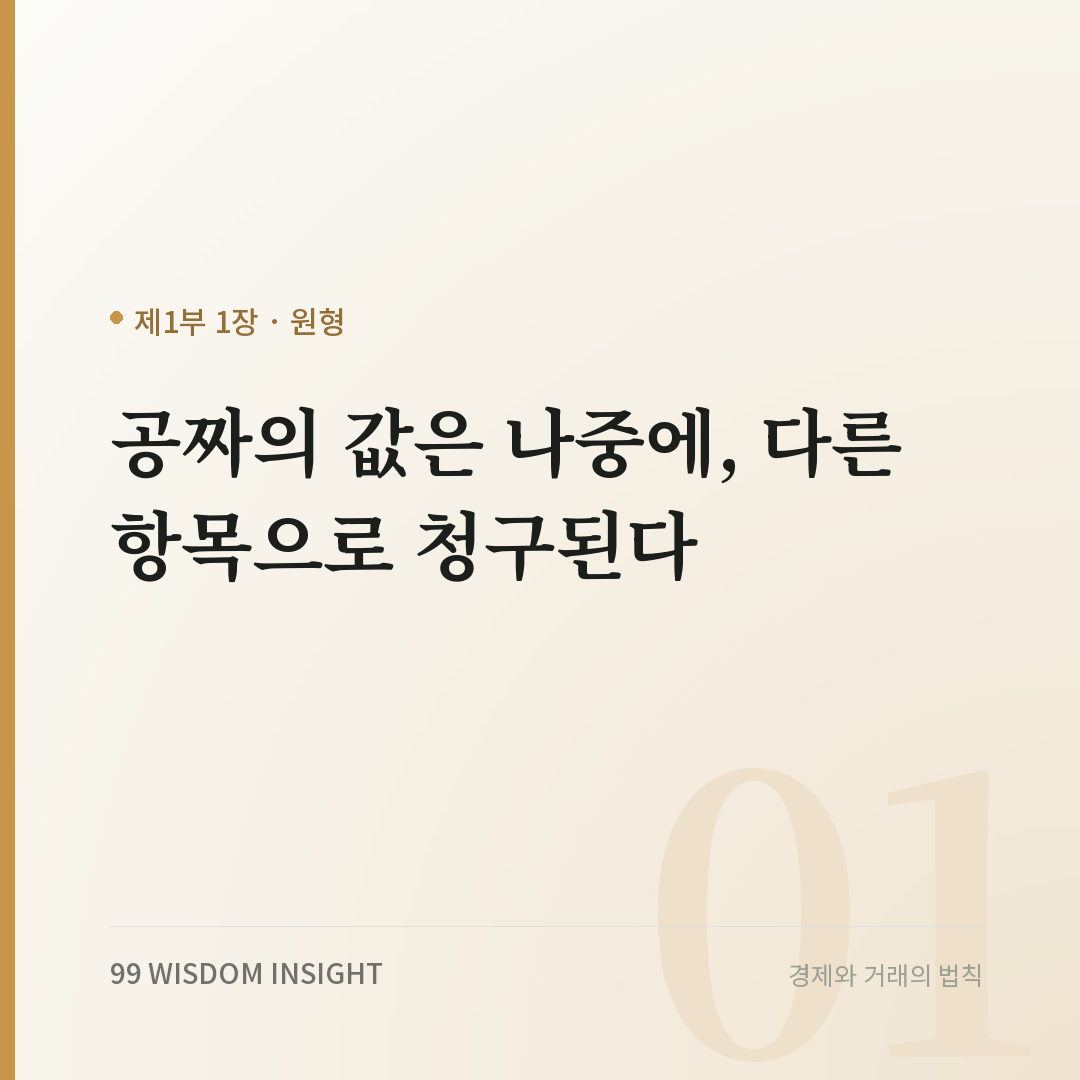
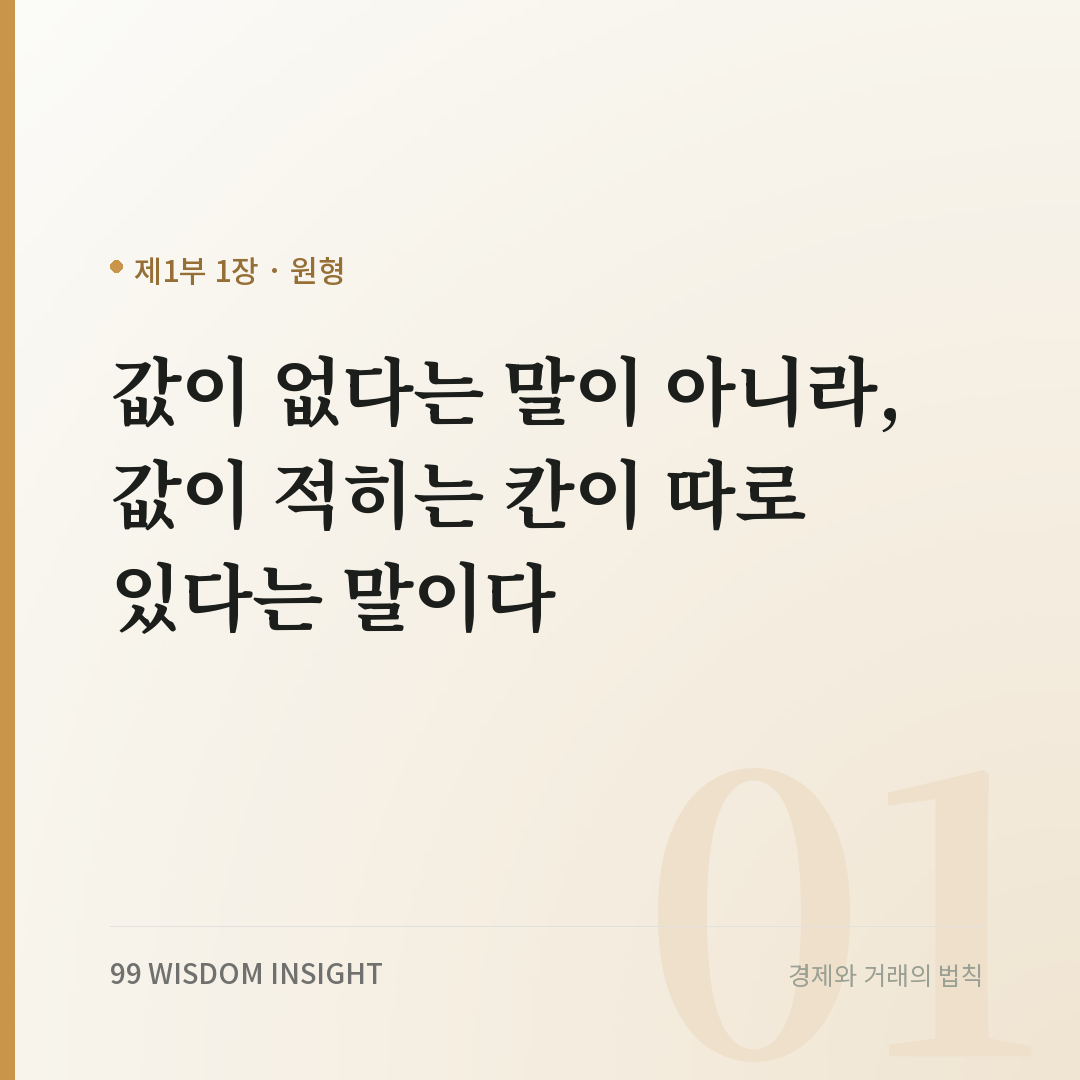
1장 칼럼을 깊이 있는 글로 개선 (샘플)
구성은 그대로 두고 문체와 내용을 올렸다. 기존 글은 사실을 짧게 나열하는
방식이라 술집 유래 → 기회비용 → 무료 앱으로 곧장 건너뛰었다.

술집 장면을 구체화하고(키플링의 1891년 기록), 문구의 계보를 1938년 신문
우화부터 하인라인·프리드먼까지 따라간 뒤, 같은 계산서가 열역학과 생태학
(린더먼의 10분의 1 법칙)에도 적혀 있음을 보인다. 기회비용은 비저의 명명과
바스티아의 「보이는 것과 보이지 않는 것」으로 뿌리를 댔다.

가장 큰 보탬은 예외를 정면으로 다룬 것이다. 마코위츠가 분산투자를 유일한
공짜 점심이라 부른 이유를 짚고, 거기서 감춰진 값과 나눠진 값의 구분을
끌어냈다. 공공재를 두고 공짜가 아니라고만 말하면 놓치는 지점이다.

625자 → 1701자(공백 제외), 9문단 → 17문단, 읽는 시간 2분 → 3분.
quotable 을 바꿨으므로 공유 카드도 다시 만들었다.

make_og.py 가 관리자 API 를 쓰다 세션 인증 도입 후 실패하던 것도 고쳤다.
카드에 필요한 값은 전부 공개 목록 API 에 있다.

Changed region(s): [[0.0917, 0.2139, 0.825, 0.6111]]

diff --git a/tools/make_og.py b/tools/make_og.py
@@ -170,12 +170,16 @@ def build(item, ratio='2x1'):
 
 def main():
     os.makedirs(OUT, exist_ok=True)
-    token = base64.b64encode(('1:%d' % (time.time() * 1000)).encode()).decode()
+    # 공개 목록 API 를 쓴다. 관리자 API 는 실제 관리자 세션이 필요해졌고,
+    # 카드에 들어가는 값(제목·quotable·장 번호)은 공개 목록에 전부 들어 있다.
     tmp = os.path.join(OUT, '_list.json')
-    subprocess.run(['curl', '-s', 'https://99wisdombook.org/api/admin/insights',
-                    '-H', 'Authorization: Bearer %s' % token, '-o', tmp], check=True)
-    items = json.load(io.open(tmp, encoding='utf-8'))['items']
+    subprocess.run(['curl', '-s', 'https://99wisdombook.org/api/insights?limit=200',
+                    '-o', tmp], check=True)
+    payload = json.load(io.open(tmp, encoding='utf-8'))
+    items = payload.get('items')
     os.remove(tmp)
+    if not items:
+        raise SystemExit('칼럼 목록을 받지 못했습니다: %s' % str(payload)[:200])
 
     want = set(sys.argv[1:])
     if want:
